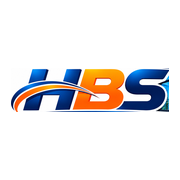
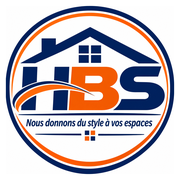
Add files via upload

diff --git a/index.html b/index.html
@@ -6,7 +6,7 @@
 <link rel="preconnect" href="https://fonts.googleapis.com"><link rel="preconnect" href="https://fonts.gstatic.com" crossorigin>
 <link href="https://fonts.googleapis.com/css2?family=Barlow+Condensed:wght@500;600;700&family=Public+Sans:wght@400;500;600&display=swap" rel="stylesheet">
 <link rel="preload" as="image" href="images/baie-coulissante-3-ouvrants.webp" fetchpriority="high">
-<link rel="stylesheet" href="assets/css/style.css?v=9">
+<link rel="stylesheet" href="assets/css/style.css?v=10">
 <script type="application/ld+json">{"@context": "https://schema.org", "@type": "HomeAndConstructionBusiness", "@id": "https://VOTRE-DOMAINE/#entreprise", "name": "Vitrerie Belleville Inox", "description": "Vitrerie, miroiterie, aluminium et travaux en inox à Bobo-Dioulasso : portes, fenêtres, baies vitrées, cloisons, tables et pose de vitres sur chantier.", "url": "https://VOTRE-DOMAINE/", "image": "https://VOTRE-DOMAINE/images/baie-coulissante-3-ouvrants.webp", "founder": {"@type": "Person", "name": "HEMA B Souleymane"}, "telephone": "+22671317922", "contactPoint": [{"@type": "ContactPoint", "telephone": "+22674501181", "contactType": "WhatsApp", "availableLanguage": "fr"}, {"@type": "ContactPoint", "telephone": "+22671317922", "contactType": "customer service", "availableLanguage": "fr"}], "address": {"@type": "PostalAddress", "streetAddress": "Quartier Belleville, à 100 mètres du commissariat de Belleville", "addressLocality": "Bobo-Dioulasso", "addressCountry": "BF"}, "areaServed": {"@type": "City", "name": "Bobo-Dioulasso"}, "openingHoursSpecification": [{"@type": "OpeningHoursSpecification", "dayOfWeek": ["Monday", "Tuesday", "Wednesday", "Thursday", "Friday", "Saturday"], "opens": "07:30", "closes": "18:30"}], "logo": "https://VOTRE-DOMAINE/images/logo.webp"}</script></head>
 <body class="home">
 <!-- Icônes : Font Awesome Free (CC BY 4.0) - fontawesome.com/license/free -->
@@ -34,10 +34,20 @@
 <section class="sec alt" id="services"><div class="wrap"><h2 class="rv">Ce que nous fabriquons et posons</h2><div class="cards">
 <article class="card rv"><svg class="ic" aria-hidden="true"><use href="#i-screwdriver-wrench"/></svg><h3>Pose de vitres sur chantier</h3><p>Nous venons sur place : mesures, découpe, pose et finitions silicone, sur chantier neuf ou rénovation.</p></article><article class="card rv"><svg class="ic" aria-hidden="true"><use href="#i-door-open"/></svg><h3>Portes de maison vitrées et fenêtres</h3><p>Verre trempé ou feuilleté, cadres aluminium ou inox, quincaillerie robuste adaptée au climat.</p></article><article class="card rv"><svg class="ic" aria-hidden="true"><use href="#i-house-chimney-window"/></svg><h3>Vitrages de maison</h3><p>Baies vitrées, cloisons, vérandas : de la lumière en plus, de la chaleur en moins.</p></article><article class="card rv"><svg class="ic" aria-hidden="true"><use href="#i-boxes-stacked"/></svg><h3>Armoires vitrées</h3><p>Fabriquées sur mesure dans notre atelier pour boutiques, salons et maisons.</p></article><article class="card rv"><svg class="ic" aria-hidden="true"><use href="#i-table-cells-large"/></svg><h3>Tables et meubles vitrés</h3><p>Plateaux en verre trempé, pieds en inox poli ou brossé, finitions soignées.</p></article><article class="card rv"><svg class="ic" aria-hidden="true"><use href="#i-shield-halved"/></svg><h3>Travaux en inox</h3><p>Garde-corps, rampes, structures : soudure propre et résistance dans le temps.</p></article><article class="card rv"><svg class="ic" aria-hidden="true"><use href="#i-store"/></svg><h3>Miroirs et vitrines</h3><p>Miroirs muraux, vitrines commerciales, enseignes vitrées taillés à vos dimensions.</p></article></div></div></section>
 
-<section class="sec" id="temoignages"><div class="wrap"><h2 class="rv">Ils nous ont fait confiance</h2><div class="cards c3">
-<blockquote class="card rv"><div class="stars" aria-label="5 sur 5"><svg class="ic" aria-hidden="true"><use href="#i-star"/></svg><svg class="ic" aria-hidden="true"><use href="#i-star"/></svg><svg class="ic" aria-hidden="true"><use href="#i-star"/></svg><svg class="ic" aria-hidden="true"><use href="#i-star"/></svg><svg class="ic" aria-hidden="true"><use href="#i-star"/></svg></div><p>Baie vitrée posée en une journée, finitions très propres. L’équipe a respecté les délais.</p><footer><b>Issouf T.</b><br>Propriétaire, Bobo-Dioulasso</footer></blockquote><blockquote class="card rv"><div class="stars" aria-label="5 sur 5"><svg class="ic" aria-hidden="true"><use href="#i-star"/></svg><svg class="ic" aria-hidden="true"><use href="#i-star"/></svg><svg class="ic" aria-hidden="true"><use href="#i-star"/></svg><svg class="ic" aria-hidden="true"><use href="#i-star"/></svg><svg class="ic" aria-hidden="true"><use href="#i-star"/></svg></div><p>Ma vitrine et mes armoires vitrées sont impeccables. Le devis était clair et le prix honnête.</p><footer><b>Mariam S.</b><br>Gérante de boutique</footer></blockquote><blockquote class="card rv"><div class="stars" aria-label="5 sur 5"><svg class="ic" aria-hidden="true"><use href="#i-star"/></svg><svg class="ic" aria-hidden="true"><use href="#i-star"/></svg><svg class="ic" aria-hidden="true"><use href="#i-star"/></svg><svg class="ic" aria-hidden="true"><use href="#i-star"/></svg><svg class="ic" aria-hidden="true"><use href="#i-star"/></svg></div><p>Nous travaillons avec eux sur nos chantiers : sérieux, ponctuels, et le garde-corps inox est solide.</p><footer><b>Abdoulaye K.</b><br>Entrepreneur du bâtiment</footer></blockquote></div></div></section>
+<section class="sec" id="temoignages"><div class="wrap"><h2 class="rv">Ils nous ont fait confiance</h2>
+<div class="tsl rv" id="tsl" role="region" aria-roledescription="carrousel" aria-label="Avis de nos clients"><div class="tsl-view"><div class="tsl-track" id="tslTrack" aria-live="off"><figure class="tq on" role="group" aria-roledescription="avis" aria-label="Avis 1 sur 3"><div class="stars" role="img" aria-label="5 sur 5"><svg class="ic" aria-hidden="true"><use href="#i-star"/></svg><svg class="ic" aria-hidden="true"><use href="#i-star"/></svg><svg class="ic" aria-hidden="true"><use href="#i-star"/></svg><svg class="ic" aria-hidden="true"><use href="#i-star"/></svg><svg class="ic" aria-hidden="true"><use href="#i-star"/></svg></div><blockquote><p>Baie vitrée posée en une journée, finitions très propres. L’équipe a respecté les délais.</p></blockquote><figcaption><span class="av" aria-hidden="true">IT</span><span class="who"><b>Issouf T.</b><small>Propriétaire, Bobo-Dioulasso</small></span></figcaption></figure><figure class="tq" role="group" aria-roledescription="avis" aria-label="Avis 2 sur 3"><div class="stars" role="img" aria-label="5 sur 5"><svg class="ic" aria-hidden="true"><use href="#i-star"/></svg><svg class="ic" aria-hidden="true"><use href="#i-star"/></svg><svg class="ic" aria-hidden="true"><use href="#i-star"/></svg><svg class="ic" aria-hidden="true"><use href="#i-star"/></svg><svg class="ic" aria-hidden="true"><use href="#i-star"/></svg></div><blockquote><p>Ma vitrine et mes armoires vitrées sont impeccables. Le devis était clair et le prix honnête.</p></blockquote><figcaption><span class="av" aria-hidden="true">MS</span><span class="who"><b>Mariam S.</b><small>Gérante de boutique</small></span></figcaption></figure><figure class="tq" role="group" aria-roledescription="avis" aria-label="Avis 3 sur 3"><div class="stars" role="img" aria-label="5 sur 5"><svg class="ic" aria-hidden="true"><use href="#i-star"/></svg><svg class="ic" aria-hidden="true"><use href="#i-star"/></svg><svg class="ic" aria-hidden="true"><use href="#i-star"/></svg><svg class="ic" aria-hidden="true"><use href="#i-star"/></svg><svg class="ic" aria-hidden="true"><use href="#i-star"/></svg></div><blockquote><p>Nous travaillons avec eux sur nos chantiers : sérieux, ponctuels, et le garde-corps inox est solide.</p></blockquote><figcaption><span class="av" aria-hidden="true">AK</span><span class="who"><b>Abdoulaye K.</b><small>Entrepreneur du bâtiment</small></span></figcaption></figure></div></div>
+<div class="tsl-bar" aria-hidden="true"><span></span></div>
+<div class="tsl-ctrl"><button class="harr" id="tprev" type="button" aria-label="Avis précédent"><svg class="ic" aria-hidden="true"><use href="#i-chevron-left"/></svg></button><div class="tdots" id="tdots"></div><button class="harr" id="tnext" type="button" aria-label="Avis suivant"><svg class="ic" aria-hidden="true"><use href="#i-chevron-right"/></svg></button><button class="harr" id="tpause" type="button" aria-label="Mettre les avis en pause"><svg class="ic" aria-hidden="true"><use href="#i-pause"/></svg></button></div></div>
+<p class="tsl-cta rv">Vous avez travaillé avec nous ? <a data-track="whatsapp" target="_blank" rel="noopener" href="https://wa.me/22674501181?text=Bonjour%2C%20je%20souhaite%20laisser%20un%20avis%20sur%20vos%20travaux.">Laissez-nous un avis sur WhatsApp</a></p></div></section>
 
-<section class="sec alt" id="apropos"><div class="wrap split"><div class="rv"><h2>Un métier de précision, appris sur le terrain</h2>
+<section class="sec alt" id="responsable"><div class="wrap split"><div class="rv"><h2>HEMA B Souleymane, responsable de l’atelier</h2>
+<p>Fondateur de Vitrerie Belleville Inox, HEMA B Souleymane dirige l’atelier installé à Belleville, à Bobo-Dioulasso. Il suit chaque projet de bout en bout : prise de mesures sur place, devis, fabrication à l’atelier, puis pose.</p>
+<p>Avec plus de dix ans de métier dans le verre, l’aluminium et l’inox, il reste votre interlocuteur direct pour les particuliers, les commerçants et les entreprises du bâtiment, du premier contact jusqu’à la fin du chantier.</p>
+<ul class="vals"><li><svg class="ic" aria-hidden="true"><use href="#i-user"/></svg> Fondateur et responsable de l’atelier</li><li><svg class="ic" aria-hidden="true"><use href="#i-ruler-combined"/></svg> Mesures et suivi de chaque chantier</li><li><svg class="ic" aria-hidden="true"><use href="#i-phone"/></svg> Joignable directement par téléphone ou WhatsApp</li></ul>
+<div class="cta resp-cta"><a class="btn" data-track="appel" href="tel:+22671317922"><svg class="ic" aria-hidden="true"><use href="#i-phone"/></svg> Appeler</a><a class="btn btn-wa" data-track="whatsapp" target="_blank" rel="noopener" href="https://wa.me/22674501181?text=Bonjour%20Souleymane%2C%20je%20souhaite%20un%20devis."><svg class="ic" aria-hidden="true"><use href="#i-whatsapp"/></svg> WhatsApp</a></div></div>
+<div class="rv about-img"><img loading="lazy" src="images/responsable-atelier.webp" width="560" height="630" alt="HEMA B Souleymane, responsable de l’atelier Vitrerie Belleville Inox"></div></div></section>
+
+<section class="sec" id="apropos"><div class="wrap split"><div class="rv"><h2>Un métier de précision, appris sur le terrain</h2>
 <p>L’atelier de HEMA B Souleymane est installé à Belleville, à 100 mètres du commissariat. Depuis plus de dix ans, nous coupons, assemblons et posons du verre pour les particuliers, les commerçants et les entreprises du bâtiment.</p>
 <p>Chaque pièce est mesurée sur place, fabriquée à la main et posée par nos équipes. Un devis honnête, un délai tenu, un chantier laissé propre.</p>
 <ul class="vals"><li><svg class="ic" aria-hidden="true"><use href="#i-ruler-combined"/></svg> Mesures et découpes précises</li><li><svg class="ic" aria-hidden="true"><use href="#i-helmet-safety"/></svg> Pose sécurisée sur chantier</li><li><svg class="ic" aria-hidden="true"><use href="#i-handshake"/></svg> Devis clair, sans surprise</li></ul></div>
@@ -52,5 +62,5 @@
 <div class="wrap legal">© 2026 Vitrerie Belleville Inox — Tous droits réservés. Responsable : HEMA B Souleymane. Entreprise artisanale individuelle, Bobo-Dioulasso, Burkina Faso.</div></footer>
 <div class="float"><a class="fl fl-call" data-track="appel" href="tel:+22671317922" aria-label="Appeler"><svg class="ic" aria-hidden="true"><use href="#i-phone"/></svg></a>
 <a class="fl fl-wa" data-track="whatsapp" target="_blank" rel="noopener" aria-label="Écrire sur WhatsApp" href="https://wa.me/22674501181?text=Bonjour%2C%20je%20souhaite%20un%20devis%20pour%20des%20travaux%20de%20vitrerie%20%2F%20inox."><svg class="ic" aria-hidden="true"><use href="#i-whatsapp"/></svg></a></div>
-<script src="assets/js/main.js?v=6"></script>
+<script src="assets/js/main.js?v=7"></script>
 </body></html>

diff --git a/assets/css/style.css b/assets/css/style.css
@@ -242,3 +242,40 @@ html:not(.js) .marquee{overflow-x:auto;-webkit-mask-image:none;mask-image:none}
 .foot-logo img{display:block;width:100%;height:100%;object-fit:cover}
 @media(min-width:769px) and (max-width:999px){.logo-txt{display:none}}
 @media(max-width:768px){.logo-round{width:46px;height:46px}.logo-txt b{font-size:1.15rem}.logo-txt small{display:none}.logo{gap:.65rem}}
+
+/* ===== Nouveau logo HBS (déjà rond, avec son propre liseré) ===== */
+.logo-round{width:58px;height:58px;border:0;background:#fff;box-shadow:0 2px 10px rgba(0,0,0,.35)}
+.foot-logo{width:160px;height:160px;border:0}
+@media(max-width:768px){.logo-round{width:50px;height:50px}}
+
+/* ===== Avis clients : carrousel dynamique ===== */
+.tsl{max-width:820px;margin:0 auto}
+.tsl-view{overflow:hidden;border-radius:var(--r)}
+.tsl-track{display:flex;transition:transform .7s cubic-bezier(.65,0,.35,1);will-change:transform}
+.tq{flex:0 0 100%;margin:0;background:#fff;padding:2.4rem 2rem 2rem;border-top:4px solid var(--cu);text-align:center;position:relative;opacity:.35;transition:opacity .7s}
+.tq.on{opacity:1}
+.tq:before{content:"\201C";position:absolute;top:.1rem;left:1.2rem;font:700 5.5rem/1 var(--hf);color:var(--glass)}
+.tq .stars{position:relative;margin-bottom:.9rem;font-size:1.15rem}
+.tq blockquote p{position:relative;font-size:clamp(1.05rem,2.6vw,1.35rem);line-height:1.55;color:var(--ink);max-width:640px;margin:0 auto}
+.tq figcaption{display:flex;align-items:center;justify-content:center;gap:.8rem;margin-top:1.4rem;padding:0;text-align:left}
+.av{display:grid;place-items:center;width:48px;height:48px;border-radius:50%;background:var(--steel);color:#fff;font:700 1.1rem var(--hf);letter-spacing:.04em;flex:none}
+.who b{display:block;color:var(--steel);font-weight:600}.who small{color:var(--steel-2);font-size:.88rem}
+.tsl-bar{height:3px;background:var(--glass);margin-top:.9rem;border-radius:3px;overflow:hidden}
+.tsl-bar span{display:block;height:100%;width:0;background:var(--cu)}
+.tsl.run .tsl-bar span{animation:tbar var(--tdur,6s) linear forwards}
+@keyframes tbar{from{width:0}to{width:100%}}
+.tsl-ctrl{display:flex;justify-content:center;align-items:center;gap:1rem;margin-top:1rem}
+.tsl-ctrl .harr{background:#fff;box-shadow:var(--sh)}.tsl-ctrl .harr:hover{background:var(--cu);color:#fff}
+.tdots{display:flex;gap:.5rem}.tdots button{width:11px;height:11px;border-radius:50%;border:0;background:var(--inox);cursor:pointer;transition:.3s;padding:0}
+.tdots button.on{background:var(--cu);width:30px;border-radius:6px}
+.tsl-cta{text-align:center;margin-top:1.6rem;color:var(--steel-2)}.tsl-cta a{color:var(--cu);font-weight:600}.tsl-cta a:hover{color:var(--cu-2)}
+/* Sans JavaScript : les avis s'empilent */
+html:not(.js) .tsl-track{display:grid;gap:1rem}html:not(.js) .tq{opacity:1}html:not(.js) .tsl-bar,html:not(.js) .tsl-ctrl{display:none}
+@media(max-width:480px){.tq{padding:2.2rem 1.2rem 1.6rem}.tq:before{font-size:4.2rem;left:.7rem}}
+@media(prefers-reduced-motion:reduce){.tsl.run .tsl-bar span{animation:none}}
+
+/* ===== Section responsable ===== */
+.resp-cta{margin-top:1.4rem}
+.btn-wa{background:#25d366}.btn-wa:hover{background:#1da851;box-shadow:0 8px 20px rgba(37,211,102,.4)}
+#responsable .about-img img{aspect-ratio:8/9;object-position:50% 12%}
+#temoignages h2{text-align:center}

diff --git a/assets/js/main.js b/assets/js/main.js
@@ -227,3 +227,40 @@ document.documentElement.classList.add('js');
   };
   document.addEventListener('click', e => { const t = e.target.closest('[data-track]'); if (t) window.vbTrack(t.dataset.track); });
 })();
+
+/* Avis clients : défilement automatique, flèches, points, balayage, pause (survol, focus, bouton) */
+(function () {
+  const root = document.getElementById('tsl'); if (!root) return;
+  const track = document.getElementById('tslTrack'), slides = Array.from(track.children), dotsBox = document.getElementById('tdots');
+  const btnP = document.getElementById('tpause'), DUR = 6000;
+  let i = 0, timer = null, userPaused = matchMedia('(prefers-reduced-motion: reduce)').matches, hover = false, focus = false, x0 = null;
+  slides.forEach((_, k) => { const b = document.createElement('button'); b.type = 'button'; b.setAttribute('aria-label', 'Avis ' + (k + 1)); b.onclick = () => go(k, true); dotsBox.appendChild(b); });
+  const dots = Array.from(dotsBox.children);
+  root.style.setProperty('--tdur', DUR + 'ms');
+  function bar() { root.classList.remove('run'); void root.offsetWidth; if (running()) root.classList.add('run'); }
+  const running = () => !userPaused && !hover && !focus && !document.hidden;
+  function go(n, manual) {
+    i = (n + slides.length) % slides.length;
+    track.style.transform = 'translateX(' + (-i * 100) + '%)';
+    slides.forEach((s, k) => { s.classList.toggle('on', k === i); s.setAttribute('aria-hidden', k === i ? 'false' : 'true'); });
+    dots.forEach((d, k) => { d.classList.toggle('on', k === i); d.setAttribute('aria-current', k === i ? 'true' : 'false'); });
+    schedule();
+  }
+  function schedule() { clearTimeout(timer); bar(); if (running()) timer = setTimeout(() => go(i + 1), DUR); }
+  function setPaused(p) {
+    userPaused = p; track.setAttribute('aria-live', p ? 'polite' : 'off');
+    btnP.setAttribute('aria-label', p ? 'Relancer les avis' : 'Mettre les avis en pause');
+    btnP.querySelector('use').setAttribute('href', p ? '#i-play' : '#i-pause'); schedule();
+  }
+  document.getElementById('tprev').onclick = () => go(i - 1, true);
+  document.getElementById('tnext').onclick = () => go(i + 1, true);
+  btnP.onclick = () => setPaused(!userPaused);
+  root.addEventListener('mouseenter', () => { hover = true; schedule(); }); root.addEventListener('mouseleave', () => { hover = false; schedule(); });
+  root.addEventListener('focusin', () => { focus = true; schedule(); }); root.addEventListener('focusout', () => { focus = false; schedule(); });
+  root.addEventListener('touchstart', e => { x0 = e.touches[0].clientX; }, { passive: true });
+  root.addEventListener('touchend', e => { if (x0 === null) return; const d = e.changedTouches[0].clientX - x0; x0 = null; if (Math.abs(d) > 40) go(i + (d < 0 ? 1 : -1), true); });
+  root.addEventListener('keydown', e => { if (e.key === 'ArrowRight') go(i + 1, true); if (e.key === 'ArrowLeft') go(i - 1, true); });
+  document.addEventListener('visibilitychange', schedule);
+  new IntersectionObserver(es => { if (!es[0].isIntersecting) { clearTimeout(timer); root.classList.remove('run'); } else schedule(); }, { threshold: .2 }).observe(root);
+  setPaused(userPaused); go(0);
+})();

diff --git a/contact.html b/contact.html
@@ -5,7 +5,7 @@
 <link rel="icon" type="image/png" sizes="32x32" href="images/favicon-32.png"><link rel="apple-touch-icon" href="images/apple-touch-icon.png">
 <link rel="preconnect" href="https://fonts.googleapis.com"><link rel="preconnect" href="https://fonts.gstatic.com" crossorigin>
 <link href="https://fonts.googleapis.com/css2?family=Barlow+Condensed:wght@500;600;700&family=Public+Sans:wght@400;500;600&display=swap" rel="stylesheet">
-<link rel="stylesheet" href="assets/css/style.css?v=9">
+<link rel="stylesheet" href="assets/css/style.css?v=10">
 <script type="application/ld+json">{"@context": "https://schema.org", "@type": "HomeAndConstructionBusiness", "@id": "https://VOTRE-DOMAINE/#entreprise", "name": "Vitrerie Belleville Inox", "description": "Vitrerie, miroiterie, aluminium et travaux en inox à Bobo-Dioulasso : portes, fenêtres, baies vitrées, cloisons, tables et pose de vitres sur chantier.", "url": "https://VOTRE-DOMAINE/", "image": "https://VOTRE-DOMAINE/images/baie-coulissante-3-ouvrants.webp", "founder": {"@type": "Person", "name": "HEMA B Souleymane"}, "telephone": "+22671317922", "contactPoint": [{"@type": "ContactPoint", "telephone": "+22674501181", "contactType": "WhatsApp", "availableLanguage": "fr"}, {"@type": "ContactPoint", "telephone": "+22671317922", "contactType": "customer service", "availableLanguage": "fr"}], "address": {"@type": "PostalAddress", "streetAddress": "Quartier Belleville, à 100 mètres du commissariat de Belleville", "addressLocality": "Bobo-Dioulasso", "addressCountry": "BF"}, "areaServed": {"@type": "City", "name": "Bobo-Dioulasso"}, "openingHoursSpecification": [{"@type": "OpeningHoursSpecification", "dayOfWeek": ["Monday", "Tuesday", "Wednesday", "Thursday", "Friday", "Saturday"], "opens": "07:30", "closes": "18:30"}], "logo": "https://VOTRE-DOMAINE/images/logo.webp"}</script></head>
 <body class="sub">
 <!-- Icônes : Font Awesome Free (CC BY 4.0) - fontawesome.com/license/free -->
@@ -35,5 +35,5 @@
 <div class="wrap legal">© 2026 Vitrerie Belleville Inox — Tous droits réservés. Responsable : HEMA B Souleymane. Entreprise artisanale individuelle, Bobo-Dioulasso, Burkina Faso.</div></footer>
 <div class="float"><a class="fl fl-call" data-track="appel" href="tel:+22671317922" aria-label="Appeler"><svg class="ic" aria-hidden="true"><use href="#i-phone"/></svg></a>
 <a class="fl fl-wa" data-track="whatsapp" target="_blank" rel="noopener" aria-label="Écrire sur WhatsApp" href="https://wa.me/22674501181?text=Bonjour%2C%20je%20souhaite%20un%20devis%20pour%20des%20travaux%20de%20vitrerie%20%2F%20inox."><svg class="ic" aria-hidden="true"><use href="#i-whatsapp"/></svg></a></div>
-<script src="assets/js/main.js?v=6"></script>
+<script src="assets/js/main.js?v=7"></script>
 <script src="assets/js/contact.js?v=6"></script></body></html>

diff --git a/realisations.html b/realisations.html
@@ -5,7 +5,7 @@
 <link rel="icon" type="image/png" sizes="32x32" href="images/favicon-32.png"><link rel="apple-touch-icon" href="images/apple-touch-icon.png">
 <link rel="preconnect" href="https://fonts.googleapis.com"><link rel="preconnect" href="https://fonts.gstatic.com" crossorigin>
 <link href="https://fonts.googleapis.com/css2?family=Barlow+Condensed:wght@500;600;700&family=Public+Sans:wght@400;500;600&display=swap" rel="stylesheet">
-<link rel="stylesheet" href="assets/css/style.css?v=9">
+<link rel="stylesheet" href="assets/css/style.css?v=10">
 <script type="application/ld+json">{"@context": "https://schema.org", "@type": "HomeAndConstructionBusiness", "@id": "https://VOTRE-DOMAINE/#entreprise", "name": "Vitrerie Belleville Inox", "description": "Vitrerie, miroiterie, aluminium et travaux en inox à Bobo-Dioulasso : portes, fenêtres, baies vitrées, cloisons, tables et pose de vitres sur chantier.", "url": "https://VOTRE-DOMAINE/", "image": "https://VOTRE-DOMAINE/images/baie-coulissante-3-ouvrants.webp", "founder": {"@type": "Person", "name": "HEMA B Souleymane"}, "telephone": "+22671317922", "contactPoint": [{"@type": "ContactPoint", "telephone": "+22674501181", "contactType": "WhatsApp", "availableLanguage": "fr"}, {"@type": "ContactPoint", "telephone": "+22671317922", "contactType": "customer service", "availableLanguage": "fr"}], "address": {"@type": "PostalAddress", "streetAddress": "Quartier Belleville, à 100 mètres du commissariat de Belleville", "addressLocality": "Bobo-Dioulasso", "addressCountry": "BF"}, "areaServed": {"@type": "City", "name": "Bobo-Dioulasso"}, "openingHoursSpecification": [{"@type": "OpeningHoursSpecification", "dayOfWeek": ["Monday", "Tuesday", "Wednesday", "Thursday", "Friday", "Saturday"], "opens": "07:30", "closes": "18:30"}], "logo": "https://VOTRE-DOMAINE/images/logo.webp"}</script></head>
 <body class="sub">
 <!-- Icônes : Font Awesome Free (CC BY 4.0) - fontawesome.com/license/free -->
@@ -42,5 +42,5 @@
 <div class="wrap legal">© 2026 Vitrerie Belleville Inox — Tous droits réservés. Responsable : HEMA B Souleymane. Entreprise artisanale individuelle, Bobo-Dioulasso, Burkina Faso.</div></footer>
 <div class="float"><a class="fl fl-call" data-track="appel" href="tel:+22671317922" aria-label="Appeler"><svg class="ic" aria-hidden="true"><use href="#i-phone"/></svg></a>
 <a class="fl fl-wa" data-track="whatsapp" target="_blank" rel="noopener" aria-label="Écrire sur WhatsApp" href="https://wa.me/22674501181?text=Bonjour%2C%20je%20souhaite%20un%20devis%20pour%20des%20travaux%20de%20vitrerie%20%2F%20inox."><svg class="ic" aria-hidden="true"><use href="#i-whatsapp"/></svg></a></div>
-<script src="assets/js/main.js?v=6"></script>
+<script src="assets/js/main.js?v=7"></script>
 </body></html>
